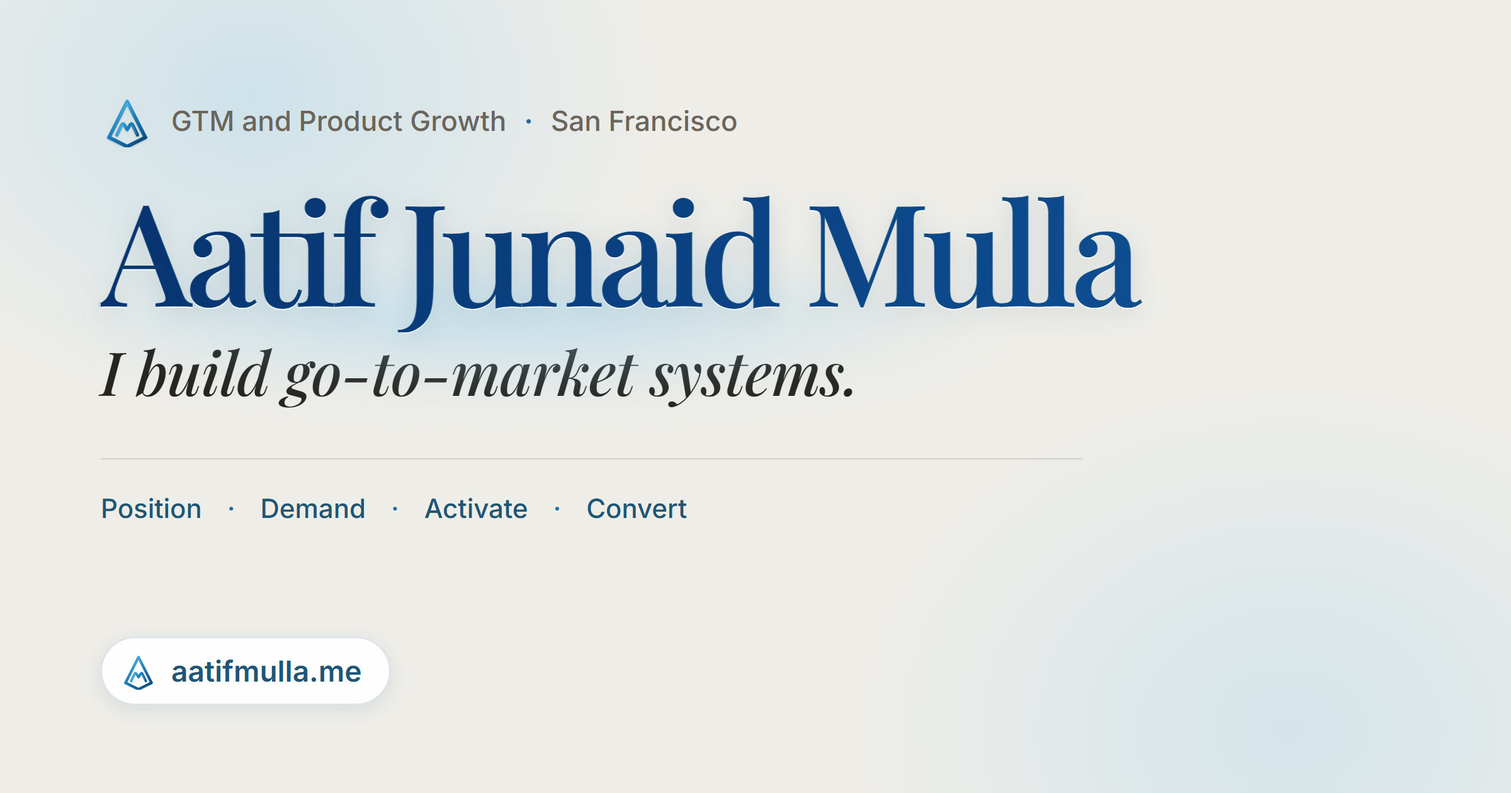
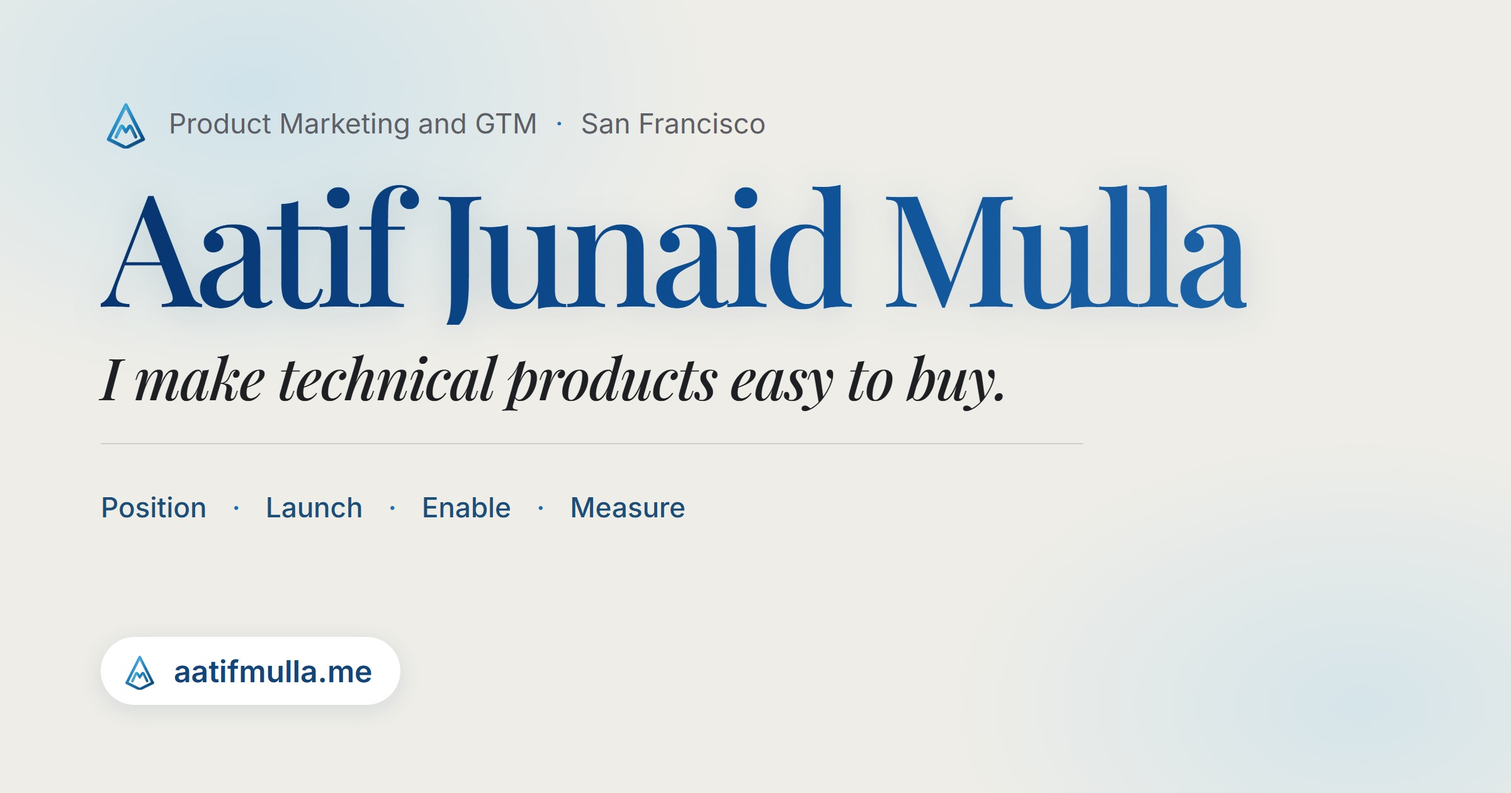
Position the site for product marketing and GTM (#168)
The 2026-10-02 H-1B study puts product marketing first among the families
the record supports (392 transfer filings at or above $135K, 229 employers),
so the homepage now leads with it:
- kicker "Product Marketing and GTM", headline "I make technical products
  easy to buy.", and a two-sentence summary under it;
- the Aiseberg card leads with research, battle cards, and the Splunk deal,
  then PMM 2.0 (run with a colleague on promotion) and the 24% (PostHog
  analysis and guided onboarding), then outbound;
- titles, search descriptions, and the share image (v=9) follow;
- the unsourced "Top 10% of class" line goes.

The Aiseberg role title stays "GTM and Product Growth" to match the resume
and LinkedIn. site.css v=100.

diff --git a/index.html b/index.html
@@ -3,24 +3,24 @@
 <head>
   <meta charset="UTF-8" />
   <meta name="viewport" content="width=device-width, initial-scale=1.0" />
-  <title>Aatif Junaid Mulla | GTM and Product Growth</title>
-  <meta name="description" content="GTM and Product Growth, San Francisco. Roughly $400K in qualified pipeline, 13 design partners, and a first enterprise deal with Splunk (a Cisco company)." />
+  <title>Aatif Junaid Mulla | Product Marketing and GTM</title>
+  <meta name="description" content="Product marketing and GTM, San Francisco. 13 design partners, roughly $400K in qualified pipeline, and a first enterprise deal with Splunk (a Cisco company)." />
 
   <!-- Open Graph -->
   <meta property="og:type" content="website" />
   <meta property="og:url" content="https://aatifmulla.me/" />
-  <meta property="og:title" content="Aatif Junaid Mulla | GTM and Product Growth" />
-  <meta property="og:description" content="GTM and Product Growth, San Francisco. Roughly $400K in qualified pipeline, 13 design partners, and a first enterprise deal with Splunk (a Cisco company)." />
-  <meta property="og:image" content="https://aatifmulla.me/og-image.jpg?v=8" />
+  <meta property="og:title" content="Aatif Junaid Mulla | Product Marketing and GTM" />
+  <meta property="og:description" content="Product marketing and GTM, San Francisco. 13 design partners, roughly $400K in qualified pipeline, and a first enterprise deal with Splunk (a Cisco company)." />
+  <meta property="og:image" content="https://aatifmulla.me/og-image.jpg?v=9" />
   <meta property="og:image:type" content="image/jpeg" />
   <meta property="og:image:width" content="2400" />
   <meta property="og:image:height" content="1260" />
-  <meta property="og:image:alt" content="Aatif Junaid Mulla | GTM and Product Growth" />
+  <meta property="og:image:alt" content="Aatif Junaid Mulla | Product Marketing and GTM" />
 
   <meta name="twitter:card" content="summary_large_image" />
-  <meta name="twitter:title" content="Aatif Junaid Mulla | GTM and Product Growth" />
-  <meta name="twitter:description" content="GTM and Product Growth, San Francisco. Roughly $400K in qualified pipeline, 13 design partners, and a first enterprise deal with Splunk (a Cisco company)." />
-  <meta name="twitter:image" content="https://aatifmulla.me/og-image.jpg?v=8" />
+  <meta name="twitter:title" content="Aatif Junaid Mulla | Product Marketing and GTM" />
+  <meta name="twitter:description" content="Product marketing and GTM, San Francisco. 13 design partners, roughly $400K in qualified pipeline, and a first enterprise deal with Splunk (a Cisco company)." />
+  <meta name="twitter:image" content="https://aatifmulla.me/og-image.jpg?v=9" />
 
   <meta name="theme-color" content="#EEEDE8" />
   <link rel="canonical" href="https://aatifmulla.me/" />
@@ -78,7 +78,7 @@
 
   <link rel="preconnect" href="https://static.cloudflareinsights.com" crossorigin />
   <link rel="dns-prefetch" href="https://static.cloudflareinsights.com" />
-  <link rel="stylesheet" href="assets/css/site.css?v=99" />
+  <link rel="stylesheet" href="assets/css/site.css?v=100" />
   <link rel="stylesheet" href="assets/css/mobile-proof-sequence.css?v=1" media="(max-width: 768px)" />
   <!-- Without JS the reveal observer never runs, so make sure nothing stays invisible. -->
   <noscript><style>.reveal { opacity: 1 !important; transform: none !important; }</style></noscript>
@@ -124,12 +124,13 @@
 
     <!-- HERO -->
     <section class="hero">
-      <p class="kicker hero__kicker reveal"><span>GTM and Product Growth</span><span class="hero__location-group"><span class="hero__kicker-divider" aria-hidden="true">&middot;</span><span class="hero__location"><svg viewBox="0 0 16 16" aria-hidden="true"><path d="M8 14s4-3.44 4-7A4 4 0 1 0 4 7c0 3.56 4 7 4 7Z"/><circle cx="8" cy="7" r="1.35"/></svg>San Francisco</span></span></p>
+      <p class="kicker hero__kicker reveal"><span>Product Marketing and GTM</span><span class="hero__location-group"><span class="hero__kicker-divider" aria-hidden="true">&middot;</span><span class="hero__location"><svg viewBox="0 0 16 16" aria-hidden="true"><path d="M8 14s4-3.44 4-7A4 4 0 1 0 4 7c0 3.56 4 7 4 7Z"/><circle cx="8" cy="7" r="1.35"/></svg>San Francisco</span></span></p>
       <h1 class="hero__name reveal" data-name="Aatif Junaid Mulla">Aatif Junaid Mulla</h1>
       <div class="hero__story reveal">
         <p class="hero__statement">
-          <span class="hero__tagline">I build go-to-market systems.</span>
+          <span class="hero__tagline">I make technical products easy to buy.</span>
         </p>
+        <p class="hero__summary">As Aiseberg's first US hire, I built the US go-to-market for an AI product from zero: 13 named design partners, competitive battle cards, a launch event, and a hand in the first signed enterprise deal with Splunk, a Cisco company. Before that, I analyzed subscription revenue for POLITICO's leadership and sold enterprise infrastructure.</p>
       </div>
 
       <div class="hero__actions reveal">
@@ -175,22 +176,22 @@
             <p class="tl-desc">A pre-seed AI startup building Aisepedia, a Product Marketing Environment for product marketers. I joined as the first US hire.</p>
 
             <ul class="tl-points">
-              <li>~$400K in qualified pipeline across 134 tracked accounts, and the first enterprise deal with Splunk (a Cisco company), alongside the founder.</li>
-              <li>36 senior attendees at PMM 2.0, an event I owned end to end, with panelists from Atlassian, Meta Reality Labs, and Google.</li>
               <li>Co-built, recruited, and ran a 13-member design partner program, 8 at Director level or above, through 32 discovery sessions that fed positioning and the roadmap.</li>
               <li>30+ enterprise sales conversations supported with competitive battle cards and objection handling.</li>
-              <li>8-stage funnel with 11 tracked events and 22 lifecycle KPIs, automated across n8n, HubSpot, and Calendly.</li>
-              <li>1,000 targeted reach-outs in six weeks converted 20 signups. Mixpanel and PostHog instrumentation then cut early abandonment 24%.</li>
+              <li>The first signed enterprise deal with Splunk (a Cisco company), converted from a design partner alongside the founder, and ~$400K in qualified pipeline across 134 tracked accounts.</li>
+              <li>36 senior attendees at PMM 2.0, the San Francisco event that opened the public beta, run with a colleague on promotion, with panelists from Atlassian, Meta Reality Labs, and Google.</li>
+              <li>24% less early abandonment after drop-off analysis in PostHog led to a guided onboarding flow, then an 8-stage funnel with 11 tracked events and 22 lifecycle KPIs, automated across n8n, HubSpot, and Calendly.</li>
+              <li>1,000 targeted reach-outs in six weeks converted 20 signups into the design partner program.</li>
             </ul>
               </div>
               <div class="tl-side">
                 <div class="metrics" aria-label="Aisepedia results">
-              <div class="metric metric--money"><span class="metric__num">~$400K</span><span class="metric__label">Qualified pipeline</span></div>
-              <div class="metric metric--users"><span class="metric__num">36</span><span class="metric__label">Event attendees</span></div>
               <div class="metric metric--target"><span class="metric__num">13</span><span class="metric__label">Design partners, 8 senior</span></div>
-              <div class="metric metric--send"><span class="metric__num">1,000</span><span class="metric__label">Targeted outreach</span></div>
-              <div class="metric metric--down"><span class="metric__num">24%</span><span class="metric__label">Less early abandonment</span></div>
               <div class="metric metric--text"><span class="metric__num metric__num--text">Splunk</span><span class="metric__label">First enterprise deal (a Cisco company)</span></div>
+              <div class="metric metric--users"><span class="metric__num">36</span><span class="metric__label">Event attendees</span></div>
+              <div class="metric metric--down"><span class="metric__num">24%</span><span class="metric__label">Less early abandonment</span></div>
+              <div class="metric metric--money"><span class="metric__num">~$400K</span><span class="metric__label">Qualified pipeline</span></div>
+              <div class="metric metric--send"><span class="metric__num">1,000</span><span class="metric__label">Targeted outreach</span></div>
             </div>
               </div>
             </div>
@@ -469,7 +470,6 @@
             </div>
           </div>
           <ul class="edu-card__points">
-            <li>Top 10% of class.</li>
             <li>The engineering foundation behind how I break problems down into systems.</li>
           </ul>
         </div>

diff --git a/404.html b/404.html
@@ -4,23 +4,23 @@
   <meta charset="UTF-8" />
   <meta name="viewport" content="width=device-width, initial-scale=1.0" />
   <title>Page Not Found | Aatif Junaid Mulla</title>
-  <meta name="description" content="This page does not exist. Return to Aatif Junaid Mulla's GTM and Product Growth portfolio." />
+  <meta name="description" content="This page does not exist. Return to Aatif Junaid Mulla's product marketing and GTM portfolio." />
 
   <!-- Open Graph -->
   <meta property="og:type" content="website" />
   <meta property="og:url" content="https://aatifmulla.me/404.html" />
   <meta property="og:title" content="Page Not Found | Aatif Junaid Mulla" />
-  <meta property="og:description" content="This page does not exist. Return to Aatif Junaid Mulla's GTM and Product Growth portfolio." />
-  <meta property="og:image" content="https://aatifmulla.me/og-image.jpg?v=8" />
+  <meta property="og:description" content="This page does not exist. Return to Aatif Junaid Mulla's product marketing and GTM portfolio." />
+  <meta property="og:image" content="https://aatifmulla.me/og-image.jpg?v=9" />
   <meta property="og:image:type" content="image/jpeg" />
   <meta property="og:image:width" content="2400" />
   <meta property="og:image:height" content="1260" />
-  <meta property="og:image:alt" content="Aatif Junaid Mulla | GTM and Product Growth" />
+  <meta property="og:image:alt" content="Aatif Junaid Mulla | Product Marketing and GTM" />
 
   <meta name="twitter:card" content="summary_large_image" />
   <meta name="twitter:title" content="Page Not Found | Aatif Junaid Mulla" />
-  <meta name="twitter:description" content="This page does not exist. Return to Aatif Junaid Mulla's GTM and Product Growth portfolio." />
-  <meta name="twitter:image" content="https://aatifmulla.me/og-image.jpg?v=8" />
+  <meta name="twitter:description" content="This page does not exist. Return to Aatif Junaid Mulla's product marketing and GTM portfolio." />
+  <meta name="twitter:image" content="https://aatifmulla.me/og-image.jpg?v=9" />
 
   <meta name="theme-color" content="#EEEDE8" />
   <meta name="referrer" content="strict-origin-when-cross-origin" />
@@ -30,7 +30,7 @@
   <link rel="icon" type="image/png" sizes="32x32" href="/favicon-32x32.png?v=4" />
   <link rel="icon" type="image/png" sizes="16x16" href="/favicon-16x16.png?v=4" />
   <link rel="apple-touch-icon" sizes="180x180" href="/apple-touch-icon.png?v=4" />
-  <link rel="stylesheet" href="/assets/css/site.css?v=99" />
+  <link rel="stylesheet" href="/assets/css/site.css?v=100" />
   <link rel="canonical" href="https://aatifmulla.me/404.html" />
 </head>
 <body>

diff --git a/gtm-systems.html b/gtm-systems.html
@@ -11,16 +11,16 @@
   <meta property="og:url" content="https://aatifmulla.me/gtm-systems.html" />
   <meta property="og:title" content="My GTM system. Human in the loop | Aatif Junaid Mulla" />
   <meta property="og:description" content="An n8n lifecycle engine that turns public market signals into cited, human-approved GTM content drafts, with the sanitized workflow export on GitHub." />
-  <meta property="og:image" content="https://aatifmulla.me/og-image.jpg?v=8" />
+  <meta property="og:image" content="https://aatifmulla.me/og-image.jpg?v=9" />
   <meta property="og:image:type" content="image/jpeg" />
   <meta property="og:image:width" content="2400" />
   <meta property="og:image:height" content="1260" />
-  <meta property="og:image:alt" content="Aatif Junaid Mulla | GTM and Product Growth" />
+  <meta property="og:image:alt" content="Aatif Junaid Mulla | Product Marketing and GTM" />
 
   <meta name="twitter:card" content="summary_large_image" />
   <meta name="twitter:title" content="My GTM system. Human in the loop | Aatif Junaid Mulla" />
   <meta name="twitter:description" content="An n8n lifecycle engine that turns public market signals into cited, human-approved GTM content drafts, with the sanitized workflow export on GitHub." />
-  <meta name="twitter:image" content="https://aatifmulla.me/og-image.jpg?v=8" />
+  <meta name="twitter:image" content="https://aatifmulla.me/og-image.jpg?v=9" />
 
   <meta name="theme-color" content="#EEEDE8" />
   <link rel="canonical" href="https://aatifmulla.me/gtm-systems.html" />
@@ -31,7 +31,7 @@
   <link rel="icon" type="image/png" sizes="32x32" href="/favicon-32x32.png?v=4" />
   <link rel="icon" type="image/png" sizes="16x16" href="/favicon-16x16.png?v=4" />
   <link rel="apple-touch-icon" sizes="180x180" href="/apple-touch-icon.png?v=4" />
-  <link rel="stylesheet" href="assets/css/site.css?v=99" />
+  <link rel="stylesheet" href="assets/css/site.css?v=100" />
 
   <!-- Structured data: a public article authored by the same Person entity -->
   <script type="application/ld+json">
@@ -42,7 +42,7 @@
     "url": "https://aatifmulla.me/gtm-systems.html",
     "datePublished": "2026-09-01T09:00:00-07:00",
     "dateModified": "2026-09-07T18:00:00-07:00",
-    "image": "https://aatifmulla.me/og-image.jpg?v=8",
+    "image": "https://aatifmulla.me/og-image.jpg?v=9",
     "author": {
       "@type": "Person",
       "@id": "https://aatifmulla.me/#person",

diff --git a/field-program.html b/field-program.html
@@ -11,16 +11,16 @@
   <meta property="og:url" content="https://aatifmulla.me/field-program.html" />
   <meta property="og:title" content="The room is the product | Aatif Junaid Mulla" />
   <meta property="og:description" content="A first-person account of a first field event: 36 senior product marketers in one room, no events team, no paid promotion." />
-  <meta property="og:image" content="https://aatifmulla.me/og-image.jpg?v=8" />
+  <meta property="og:image" content="https://aatifmulla.me/og-image.jpg?v=9" />
   <meta property="og:image:type" content="image/jpeg" />
   <meta property="og:image:width" content="2400" />
   <meta property="og:image:height" content="1260" />
-  <meta property="og:image:alt" content="Aatif Junaid Mulla | GTM and Product Growth" />
+  <meta property="og:image:alt" content="Aatif Junaid Mulla | Product Marketing and GTM" />
 
   <meta name="twitter:card" content="summary_large_image" />
   <meta name="twitter:title" content="The room is the product | Aatif Junaid Mulla" />
   <meta name="twitter:description" content="A first-person account of a first field event: 36 senior product marketers in one room, no events team, no paid promotion." />
-  <meta name="twitter:image" content="https://aatifmulla.me/og-image.jpg?v=8" />
+  <meta name="twitter:image" content="https://aatifmulla.me/og-image.jpg?v=9" />
 
   <meta name="theme-color" content="#EEEDE8" />
   <link rel="canonical" href="https://aatifmulla.me/field-program.html" />
@@ -31,7 +31,7 @@
   <link rel="icon" type="image/png" sizes="32x32" href="/favicon-32x32.png?v=4" />
   <link rel="icon" type="image/png" sizes="16x16" href="/favicon-16x16.png?v=4" />
   <link rel="apple-touch-icon" sizes="180x180" href="/apple-touch-icon.png?v=4" />
-  <link rel="stylesheet" href="assets/css/site.css?v=99" />
+  <link rel="stylesheet" href="assets/css/site.css?v=100" />
 
   <!-- Structured data: an article authored by the same Person entity -->
   <script type="application/ld+json">
@@ -42,7 +42,7 @@
     "url": "https://aatifmulla.me/field-program.html",
     "datePublished": "2026-08-20T23:40:15-07:00",
     "dateModified": "2026-09-08T09:00:00-07:00",
-    "image": "https://aatifmulla.me/og-image.jpg?v=8",
+    "image": "https://aatifmulla.me/og-image.jpg?v=9",
     "author": {
       "@type": "Person",
       "@id": "https://aatifmulla.me/#person",

diff --git a/privacy.html b/privacy.html
@@ -12,16 +12,16 @@
   <meta property="og:url" content="https://aatifmulla.me/privacy.html" />
   <meta property="og:title" content="Privacy policy | Aatif Junaid Mulla" />
   <meta property="og:description" content="How Aatif Junaid Mulla's personal portfolio handles hosting information, contact messages, and analytics." />
-  <meta property="og:image" content="https://aatifmulla.me/og-image.jpg?v=8" />
+  <meta property="og:image" content="https://aatifmulla.me/og-image.jpg?v=9" />
   <meta property="og:image:type" content="image/jpeg" />
   <meta property="og:image:width" content="2400" />
   <meta property="og:image:height" content="1260" />
-  <meta property="og:image:alt" content="Aatif Junaid Mulla | GTM and Product Growth" />
+  <meta property="og:image:alt" content="Aatif Junaid Mulla | Product Marketing and GTM" />
 
   <meta name="twitter:card" content="summary_large_image" />
   <meta name="twitter:title" content="Privacy policy | Aatif Junaid Mulla" />
   <meta name="twitter:description" content="How Aatif Junaid Mulla's personal portfolio handles hosting information, contact messages, and analytics." />
-  <meta name="twitter:image" content="https://aatifmulla.me/og-image.jpg?v=8" />
+  <meta name="twitter:image" content="https://aatifmulla.me/og-image.jpg?v=9" />
   <meta name="theme-color" content="#EEEDE8" />
   <link rel="canonical" href="https://aatifmulla.me/privacy.html" />
   <meta name="referrer" content="strict-origin-when-cross-origin" />
@@ -31,7 +31,7 @@
   <link rel="icon" type="image/png" sizes="32x32" href="/favicon-32x32.png?v=4" />
   <link rel="icon" type="image/png" sizes="16x16" href="/favicon-16x16.png?v=4" />
   <link rel="apple-touch-icon" sizes="180x180" href="/apple-touch-icon.png?v=4" />
-  <link rel="stylesheet" href="/assets/css/site.css?v=99" />
+  <link rel="stylesheet" href="/assets/css/site.css?v=100" />
 </head>
 <body>
   <a class="skip-link" href="#top">Skip to content</a>

diff --git a/accessibility.html b/accessibility.html
@@ -12,16 +12,16 @@
   <meta property="og:url" content="https://aatifmulla.me/accessibility.html" />
   <meta property="og:title" content="Accessibility | Aatif Junaid Mulla" />
   <meta property="og:description" content="Accessibility features and feedback for Aatif Junaid Mulla's personal portfolio." />
-  <meta property="og:image" content="https://aatifmulla.me/og-image.jpg?v=8" />
+  <meta property="og:image" content="https://aatifmulla.me/og-image.jpg?v=9" />
   <meta property="og:image:type" content="image/jpeg" />
   <meta property="og:image:width" content="2400" />
   <meta property="og:image:height" content="1260" />
-  <meta property="og:image:alt" content="Aatif Junaid Mulla | GTM and Product Growth" />
+  <meta property="og:image:alt" content="Aatif Junaid Mulla | Product Marketing and GTM" />
 
   <meta name="twitter:card" content="summary_large_image" />
   <meta name="twitter:title" content="Accessibility | Aatif Junaid Mulla" />
   <meta name="twitter:description" content="Accessibility features and feedback for Aatif Junaid Mulla's personal portfolio." />
-  <meta name="twitter:image" content="https://aatifmulla.me/og-image.jpg?v=8" />
+  <meta name="twitter:image" content="https://aatifmulla.me/og-image.jpg?v=9" />
   <meta name="theme-color" content="#EEEDE8" />
   <link rel="canonical" href="https://aatifmulla.me/accessibility.html" />
   <meta name="referrer" content="strict-origin-when-cross-origin" />
@@ -31,7 +31,7 @@
   <link rel="icon" type="image/png" sizes="32x32" href="/favicon-32x32.png?v=4" />
   <link rel="icon" type="image/png" sizes="16x16" href="/favicon-16x16.png?v=4" />
   <link rel="apple-touch-icon" sizes="180x180" href="/apple-touch-icon.png?v=4" />
-  <link rel="stylesheet" href="/assets/css/site.css?v=99" />
+  <link rel="stylesheet" href="/assets/css/site.css?v=100" />
 </head>
 <body>
   <a class="skip-link" href="#top">Skip to content</a>

diff --git a/terms.html b/terms.html
@@ -12,16 +12,16 @@
   <meta property="og:url" content="https://aatifmulla.me/terms.html" />
   <meta property="og:title" content="Terms and conditions | Aatif Junaid Mulla" />
   <meta property="og:description" content="Terms for using Aatif Junaid Mulla's personal portfolio and its material." />
-  <meta property="og:image" content="https://aatifmulla.me/og-image.jpg?v=8" />
+  <meta property="og:image" content="https://aatifmulla.me/og-image.jpg?v=9" />
   <meta property="og:image:type" content="image/jpeg" />
   <meta property="og:image:width" content="2400" />
   <meta property="og:image:height" content="1260" />
-  <meta property="og:image:alt" content="Aatif Junaid Mulla | GTM and Product Growth" />
+  <meta property="og:image:alt" content="Aatif Junaid Mulla | Product Marketing and GTM" />
 
   <meta name="twitter:card" content="summary_large_image" />
   <meta name="twitter:title" content="Terms and conditions | Aatif Junaid Mulla" />
   <meta name="twitter:description" content="Terms for using Aatif Junaid Mulla's personal portfolio and its material." />
-  <meta name="twitter:image" content="https://aatifmulla.me/og-image.jpg?v=8" />
+  <meta name="twitter:image" content="https://aatifmulla.me/og-image.jpg?v=9" />
   <meta name="theme-color" content="#EEEDE8" />
   <link rel="canonical" href="https://aatifmulla.me/terms.html" />
   <meta name="referrer" content="strict-origin-when-cross-origin" />
@@ -31,7 +31,7 @@
   <link rel="icon" type="image/png" sizes="32x32" href="/favicon-32x32.png?v=4" />
   <link rel="icon" type="image/png" sizes="16x16" href="/favicon-16x16.png?v=4" />
   <link rel="apple-touch-icon" sizes="180x180" href="/apple-touch-icon.png?v=4" />
-  <link rel="stylesheet" href="/assets/css/site.css?v=99" />
+  <link rel="stylesheet" href="/assets/css/site.css?v=100" />
 </head>
 <body>
   <a class="skip-link" href="#top">Skip to content</a>

diff --git a/playbook.html b/playbook.html
@@ -11,16 +11,16 @@
   <meta property="og:url" content="https://aatifmulla.me/playbook.html" />
   <meta property="og:title" content="Playbook | Aatif Junaid Mulla" />
   <meta property="og:description" content="Five go-to-market plays, each with the problem, what he owned, and the number it moved." />
-  <meta property="og:image" content="https://aatifmulla.me/og-image.jpg?v=8" />
+  <meta property="og:image" content="https://aatifmulla.me/og-image.jpg?v=9" />
   <meta property="og:image:type" content="image/jpeg" />
   <meta property="og:image:width" content="2400" />
   <meta property="og:image:height" content="1260" />
-  <meta property="og:image:alt" content="Aatif Junaid Mulla | GTM and Product Growth" />
+  <meta property="og:image:alt" content="Aatif Junaid Mulla | Product Marketing and GTM" />
 
   <meta name="twitter:card" content="summary_large_image" />
   <meta name="twitter:title" content="Playbook | Aatif Junaid Mulla" />
   <meta name="twitter:description" content="Five go-to-market plays, each with the problem, what he owned, and the number it moved." />
-  <meta name="twitter:image" content="https://aatifmulla.me/og-image.jpg?v=8" />
+  <meta name="twitter:image" content="https://aatifmulla.me/og-image.jpg?v=9" />
 
   <meta name="theme-color" content="#EEEDE8" />
   <link rel="canonical" href="https://aatifmulla.me/playbook.html" />
@@ -31,7 +31,7 @@
   <link rel="icon" type="image/png" sizes="32x32" href="/favicon-32x32.png?v=4" />
   <link rel="icon" type="image/png" sizes="16x16" href="/favicon-16x16.png?v=4" />
   <link rel="apple-touch-icon" sizes="180x180" href="/apple-touch-icon.png?v=4" />
-  <link rel="stylesheet" href="assets/css/site.css?v=99" />
+  <link rel="stylesheet" href="assets/css/site.css?v=100" />
 
   <!-- Structured data: ties this page back to the same Person entity -->
   <script type="application/ld+json">

diff --git a/assets/css/site.css b/assets/css/site.css
@@ -257,6 +257,9 @@ body::before {
   font-weight: 500;
   color: var(--ink);
 }
+.hero__summary {
+  max-width: 44rem; margin: 1.1rem 0 0; font-size: var(--text-16); line-height: 1.6; color: var(--ink-soft); text-wrap: pretty;
+}
 .hero__statement strong {
   font-family: var(--sans); font-style: normal; font-weight: 600; font-size: var(--text-small);
   line-height: 1.4; color: var(--blue-deep);
@@ -1180,7 +1183,10 @@ a.tool-chip:hover { border-color: var(--blue); color: var(--blue-deep); }
   .section-title { font-size: var(--text-24); }
   .hero__name { font-size: clamp(2.1rem, 11.2vw, 2.75rem); }
   .hero__tagline { font-size: var(--text-24); }
-  .hero__statement strong { font-size: var(--text-14); }
+  .hero__summary {
+  max-width: 44rem; margin: 1.1rem 0 0; font-size: var(--text-16); line-height: 1.6; color: var(--ink-soft); text-wrap: pretty;
+}
+.hero__statement strong { font-size: var(--text-14); }
   .hero-proof__intro h2 { font-size: var(--text-24); }
   .tl-role { font-size: var(--text-18); }
   .tl-date { font-size: var(--text-14); }

diff --git a/DESIGN.md b/DESIGN.md
@@ -130,7 +130,7 @@ The rules below came out of a full review against premium, minimal design. They 
 - Serif headings sit at weight 500; numbers and lead words keep 600. Italic Inter is not used for descriptions or footnotes; italics stay on the tagline, the testimonials, and the footer line.
 - Letter-spacing has three values: -0.02em on display type, none on body, 0.06em on the small-capital dates. The hero name keeps its own. Line-height has three: 1.15 on headings, 1.4 on compact labels, 1.6 on body, with display type tighter.
 - Every heading is left-aligned, the Toolkit included. Closing invitations may centre.
-- The social image mirrors the hero: plain kicker, the gradient name, the italic tagline, the four verbs as plain words, and no letterspaced capitals. Regenerate it whenever the hero copy changes and bump its version.
+- The social image mirrors the hero: plain kicker, the gradient name, the italic tagline, the four verbs as plain words, and no letterspaced capitals. Since 2026-10-03 the kicker is Product Marketing and GTM, the tagline "I make technical products easy to buy.", and the verbs Position, Launch, Enable, Measure. A two-sentence summary in ink-soft 16px, at most 44rem wide, sits under the tagline on the site only. The kicker states the target; role cards keep the record's titles. Regenerate it whenever the hero copy changes and bump its version.
 - On desktop and tablets the homepage hero fills three quarters of the first screen together with the 68px header, its content centred and the tagline at 48, so Experience starts one scroll down. On phones it sizes to its content (32px above, 16px below) and `--hero-nudge` is 8px, so no empty bands sit above the kicker or below the buttons; the triad field is anchored to the kicker's row so it keeps its place beside the name. The hero block is opened out by `--hero-nudge` (24px): the kicker sits one step higher and the buttons one step lower than the base spacing, and the triad field sits three steps right on desktop (769 to 1024px keeps its own placement) and one step lower than its original position, at 108% scale grown around the triad. The triad is never hidden. From 769 to 1024px it sits to the right of the text, centred on it; at 768 and below there is none, by the owner's call. The tablet placement uses a crop of the SVG around the triad and its three labels, sized by `--u` (px per SVG unit, never below 0.62px, where the labels start to render badly), with only the outer edges misted. The hero carries no method band. The approach section, titled How I approach problems (My approach in the nav), sits after Education as four glass cards, the same tile as Experience and What I built, with 24 serif titles at 500 over 14 ink-soft text, two by two on desktop and small folding cards on phones, and the homepage index of the two case pages is titled What I built, which echoes the hero line and pairs with How I work. Nav labels never wrap; from 769 to 860px the homepage header shows the mark alone so its six links fit on one line.
 - Each fact appears once on a play: bullets carry the actions, the result block carries the number. Disclosure controls say Show, never See.
 

diff --git a/CHANGELOG.md b/CHANGELOG.md
@@ -17,6 +17,7 @@ All notable user-facing and repository-maintenance changes are recorded here. Th
 
 ### Changed
 
+- Positioning moves to product marketing and GTM. The hero kicker reads "Product Marketing and GTM", the headline "I make technical products easy to buy.", and a two-sentence summary sits under it. The Aiseberg card leads with the design partner program and battle cards, then the Splunk deal and pipeline, then PMM 2.0 (now described as run with a colleague on promotion) and the 24% (credited to the PostHog analysis and guided onboarding). Page titles, search descriptions, and the share image (v=9) follow. The unsourced "Top 10% of class" line is removed. The Aiseberg role title stays "GTM and Product Growth" to match the resume and LinkedIn.
 - The homepage name glints once: about a second after it appears, a thin, half-strength light streak crosses "Aatif Junaid Mulla" in a fraction of a second and does not return. Reduced motion turns it off. On desktop the hexagon field sits one more step (24px) to the right. The approach section is titled "How I approach problems", and its nav link reads "My approach"; nav labels no longer wrap, and from 769 to 860px the homepage header shows the mark alone so the six links fit.
 - The downloadable resume is rebuilt from the professional brain's current record (brain commit 59a4eb6): a first-person summary with the credentials folded in, six Aiseberg bullets, EnCloudEn and Quantum grouped under the acquisition, both Peepal titles on their own lines, and the MBA under Education only. The 24% now credits the PostHog drop-off work and guided onboarding that produced it, PMM 2.0 is described as run with a colleague on promotion, and the unverified 20 program signups are gone. Every Resume link moves to `resume.pdf?v=2026-09e`.
 - Phones only: the homepage hero sizes to its content instead of filling three quarters of the screen, and the hero spacing step eases from 24px to 8px, closing the empty bands under the header and above Experience.
